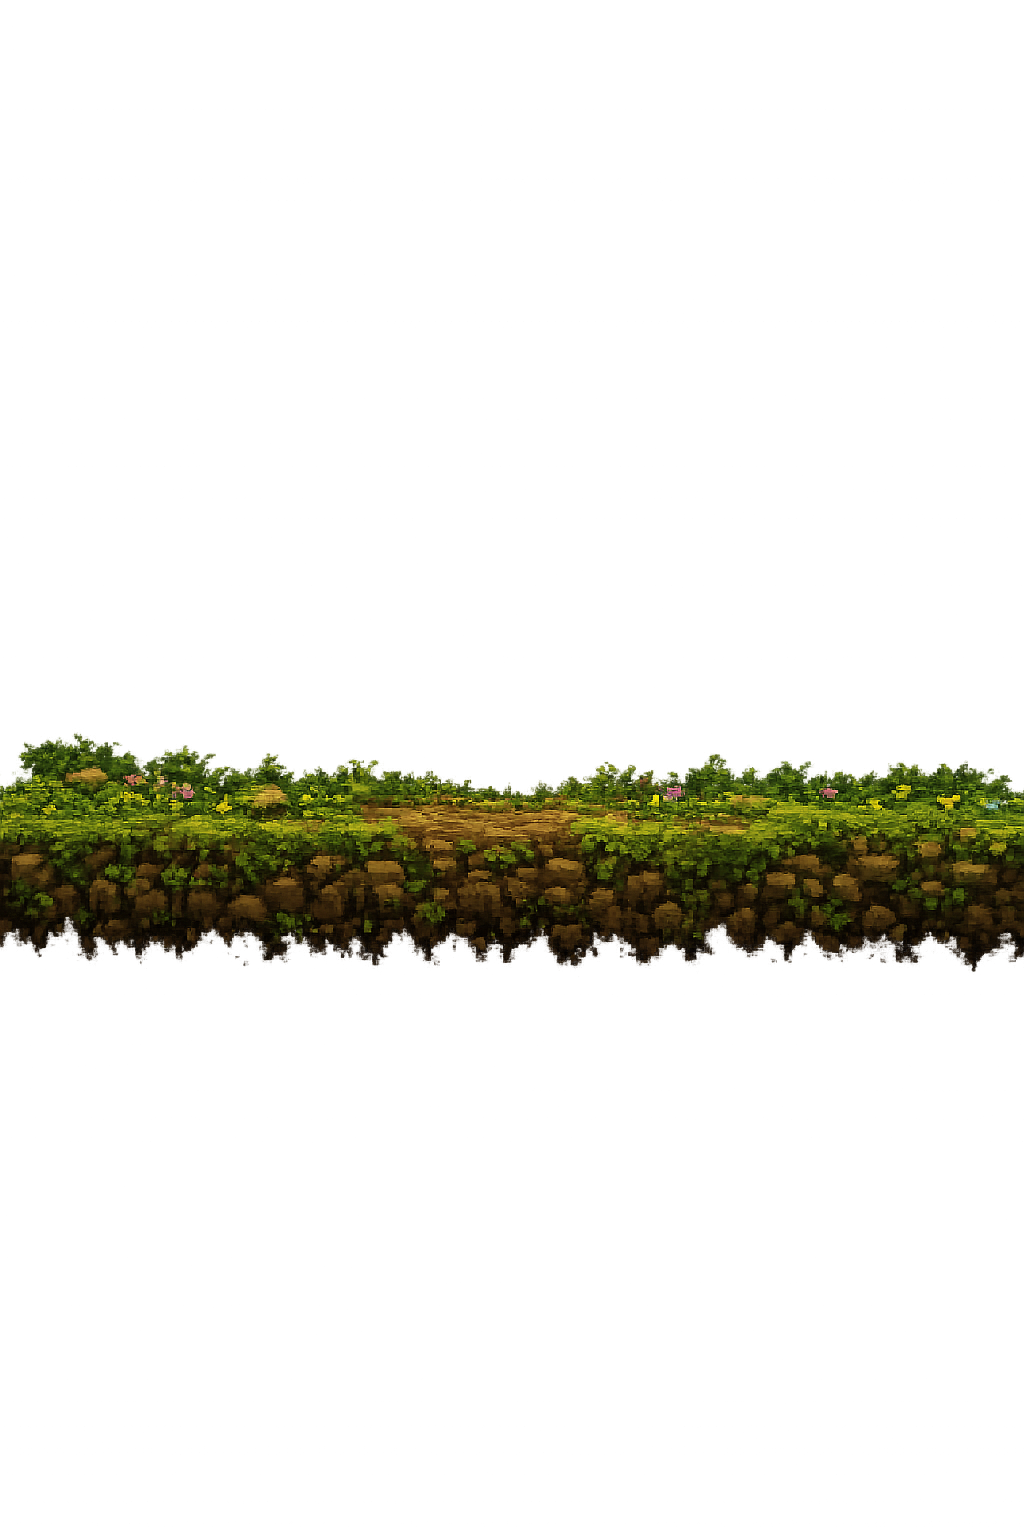
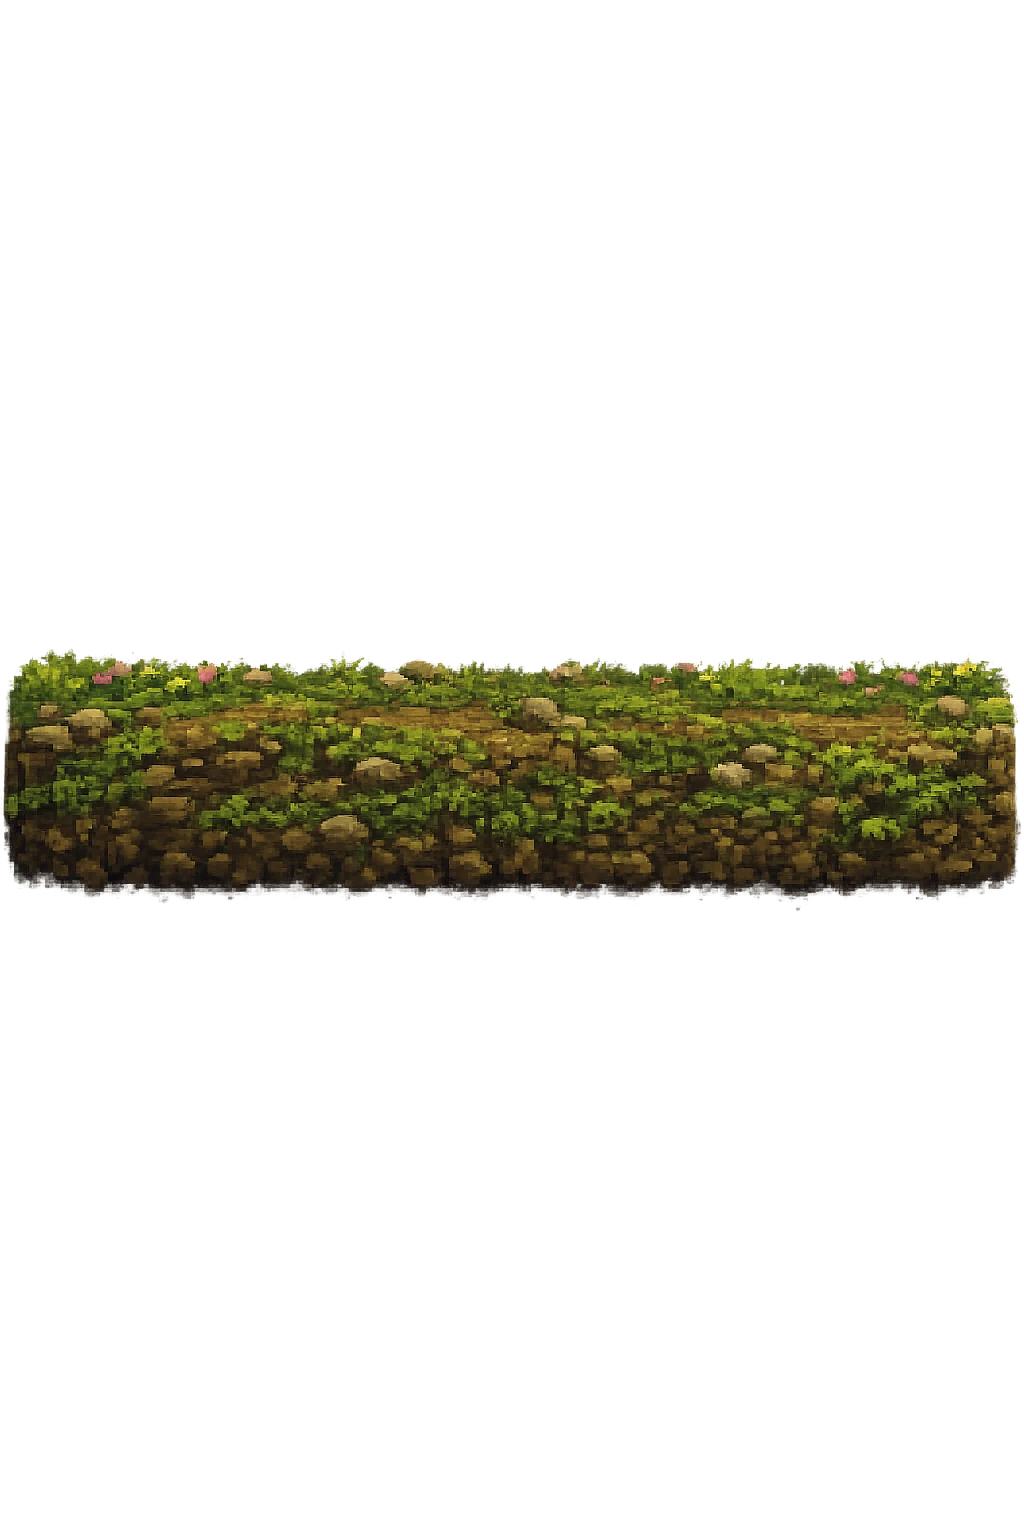
fix(parallax): close tapered-path seam, plant bushes by green-bottom, buddy on dirt
- Tile stride now uses the 85%-coverage solid-width, so tapered paths
  (e.g. forest damp) overlap their neighbours instead of leaving a blue gap.
- Bushes anchor by the bottom of their green foliage, tucking the brown
  base under the solid ground (tall bushes show full green, flat ones peek).
- Buddy stands on the dirt line (PLANT_SURFACE_FRAC), not the path crest.
- Regenerated 5 too-thin path variants (forest flower/stones, snow regular,
  northern grassy, galaxy regular).

Changed region(s): [[0.0, 0.4062, 1.0, 0.625]]

diff --git a/src/components/NineLayerParallax.tsx b/src/components/NineLayerParallax.tsx
@@ -6,7 +6,6 @@ import {
   Dimensions,
   ImageSourcePropType,
 } from "react-native";
-import { LinearGradient } from "expo-linear-gradient";
 import Animated, {
   useSharedValue,
   useAnimatedStyle,
@@ -17,7 +16,9 @@ import Animated, {
 } from "react-native-reanimated";
 import { NINE_LAYER_ASSETS, NineLayerBiome } from "../config/nineLayerAssets";
 import {
-  GROUND_BASELINE,
+  SURFACE_FRAC,
+  GROUND_OVERSHOOT,
+  PLANT_DEPTH,
   NINE_LAYER_GEOMETRY,
 } from "../config/nineLayerGeometry";
 
@@ -26,10 +27,6 @@ const { width: SCREEN_WIDTH, height: SCREEN_HEIGHT } = Dimensions.get("window");
 const FRAME_ASPECT = 1024 / 1536;
 
 const BASE_SPEED = 93;
-
-// Fraction of screen height of path-crest texture shown above the solid fill.
-// The rest of the path "island" is covered by the over-path fill.
-const SURFACE_BAND = 0.05;
 
 type LayerConfig = {
   scale: number;
@@ -191,6 +188,7 @@ const ScrollRow = ({
   leftOffset,
   anchorFracs,
   baselineY,
+  solidFrac = 1,
 }: {
   frames: ImageSourcePropType[];
   pxPerSec: number;
@@ -207,11 +205,17 @@ const ScrollRow = ({
    */
   anchorFracs?: number[];
   baselineY?: number;
+  /**
+   * Fraction of the frame width that is solid. Used as the tile-stride basis so a
+   * tapered "island" path tiles by its solid centre — the tapered tips overlap the
+   * neighbour instead of leaving a transparent gap (which showed as blue sky).
+   */
+  solidFrac?: number;
 }) => {
   const translateX = useSharedValue(0);
   const scaledFrameW = Math.round(SCREEN_HEIGHT * FRAME_ASPECT * scale);
   const scaledH = Math.round(SCREEN_HEIGHT * scale);
-  const stride = scaledFrameW - TILE_OVERLAP;
+  const stride = Math.round(solidFrac * scaledFrameW) - TILE_OVERLAP;
   const period = frames.length * stride;
   const repeats = Math.max(2, Math.ceil((period + SCREEN_WIDTH) / period) + 1);
 
@@ -254,7 +258,9 @@ const ScrollRow = ({
           style={{
             width: scaledFrameW,
             height: scaledH,
-            marginRight: -TILE_OVERLAP,
+            // Spacing = stride, so a tapered path tiles by its solid centre
+            // (negative margin overlaps the tapered tips) — no gap / blue sky.
+            marginRight: stride - scaledFrameW,
             transform: [{ translateY: dy }],
           }}
           resizeMode="stretch"
@@ -276,38 +282,6 @@ const ScrollRow = ({
   );
 };
 
-/**
- * Solid ground fill — a gradient earth band from `baselineY + offset` to the
- * screen bottom. Rendered twice: once behind the path (offset 0) to back up the
- * transparent gaps in the "island" art, and once in front of it (offset =
- * SURFACE_BAND px) to cover the island's scenic body so only a thin crest band
- * of walkable-surface texture stays visible — not a second mini-scene.
- */
-const GroundFill = ({
-  baselineY,
-  fill,
-  zIndex,
-  offset = 0,
-}: {
-  baselineY: number;
-  fill: { top: string; bottom: string };
-  zIndex: number;
-  offset?: number;
-}) => (
-  <LinearGradient
-    colors={[fill.top, fill.bottom]}
-    style={{
-      position: "absolute",
-      left: 0,
-      right: 0,
-      top: baselineY + offset,
-      height: SCREEN_HEIGHT - baselineY - offset,
-      zIndex,
-    }}
-    pointerEvents="none"
-  />
-);
-
 export const NineLayerParallax: React.FC<NineLayerParallaxProps> = ({
   biome,
   speed = 1,
@@ -318,8 +292,7 @@ export const NineLayerParallax: React.FC<NineLayerParallaxProps> = ({
   const set = NINE_LAYER_ASSETS[biome];
   const layers = BIOME_LAYERS[biome];
   const geo = NINE_LAYER_GEOMETRY[biome];
-  const baselineY = Math.round(GROUND_BASELINE * SCREEN_HEIGHT);
-  const bandPx = Math.round(SCREEN_HEIGHT * SURFACE_BAND);
+  const baselineY = Math.round(SURFACE_FRAC * SCREEN_HEIGHT);
   const cloudFrames = useMemo(() => set.clouds, [set]);
   const treeFrames = useMemo(() => set.trees, [set]);
   const bushFrames = useMemo(() => set.bushes, [set]);
@@ -332,6 +305,19 @@ export const NineLayerParallax: React.FC<NineLayerParallaxProps> = ({
     [set, groundIndex],
   );
   const groundCrest = geo.groundCrest[groundIndex];
+  // Anchor the path crest on the surface line and its opaque bottom just BELOW
+  // the screen (GROUND_OVERSHOOT) so the path's gappy underside is hidden
+  // off-screen. The band must fill (1 - SURFACE_FRAC + GROUND_OVERSHOOT) of H.
+  const groundFill = 1 - SURFACE_FRAC + GROUND_OVERSHOOT;
+  const groundBand = Math.max(
+    0.05,
+    geo.groundBottom[groundIndex] - groundCrest,
+  );
+  const groundScale = groundFill / groundBand;
+  // Trees/bushes plant PLANT_DEPTH down into the band so their bases embed
+  // behind the path and they appear to grow out of the ground (not float on it).
+  const plantY =
+    baselineY + Math.round(PLANT_DEPTH * groundFill * SCREEN_HEIGHT);
 
   if (!isActive) return null;
 
@@ -383,62 +369,53 @@ export const NineLayerParallax: React.FC<NineLayerParallaxProps> = ({
         leftOffset={leftOff("midground")}
       />
 
-      {/* 4 — Solid ground fill below the baseline (backs up the path island art) */}
-      <GroundFill baselineY={baselineY} fill={geo.fill} zIndex={4} />
-
-      {/* 5 — Foreground trees (planted on the shared baseline) */}
+      {/* 4 — Foreground trees (planted on the surface line) */}
       <ScrollRow
         frames={treeFrames}
         pxPerSec={pxSec("trees")}
         speed={speed}
         reduceMotion={reduceMotion}
-        zIndex={5}
+        zIndex={4}
         scale={sc("trees")}
         topOffset={0}
         leftOffset={leftOff("trees")}
         anchorFracs={geo.treeBase}
-        baselineY={baselineY}
+        baselineY={plantY}
       />
 
-      {/* 6 — Bushes (planted on the shared baseline) */}
+      {/* 5 — Bushes (planted on the surface line) */}
       <ScrollRow
         frames={bushFrames}
         pxPerSec={pxSec("bushes")}
         speed={speed}
         reduceMotion={reduceMotion}
-        zIndex={6}
+        zIndex={5}
         scale={sc("bushes")}
         topOffset={0}
         leftOffset={leftOff("bushes")}
-        anchorFracs={geo.bushBase}
-        baselineY={baselineY}
+        anchorFracs={geo.bushGreenBottom}
+        baselineY={plantY}
       />
 
-      {/* 7 — Ground path: crest planted on the baseline; one variant per session */}
+      {/* 6 — Ground path: scaled so its crest sits on the surface and its opaque
+          bottom reaches the screen bottom; one variant per session */}
       <ScrollRow
         frames={groundFrame}
         pxPerSec={pxSec("ground")}
         speed={speed}
         reduceMotion={reduceMotion}
-        zIndex={7}
-        scale={sc("ground")}
+        zIndex={6}
+        scale={groundScale}
         topOffset={0}
         leftOffset={leftOff("ground")}
         anchorFracs={[groundCrest]}
         baselineY={baselineY}
+        solidFrac={geo.groundSolidWidth[groundIndex]}
       />
 
-      {/* 8 — Solid ground over the path's scenic body: only a thin crest band of texture stays visible */}
-      <GroundFill
-        baselineY={baselineY}
-        fill={geo.fill}
-        zIndex={8}
-        offset={bandPx}
-      />
-
-      {/* 9 — Sun: centered, static, always visible above scene layers */}
+      {/* 7 — Sun: centered, static, always visible above scene layers */}
       <View
-        style={[styles.sunContainer, { zIndex: 9, top: SCREEN_HEIGHT * 0.06 }]}
+        style={[styles.sunContainer, { zIndex: 7, top: SCREEN_HEIGHT * 0.06 }]}
         pointerEvents="none"
       >
         <Image
@@ -448,13 +425,13 @@ export const NineLayerParallax: React.FC<NineLayerParallaxProps> = ({
         />
       </View>
 
-      {/* 10 — Clouds: highest z-index so they're always visible */}
+      {/* 8 — Clouds: highest z-index so they're always visible */}
       <ScrollRow
         frames={cloudFrames}
         pxPerSec={pxSec("clouds")}
         speed={speed}
         reduceMotion={reduceMotion}
-        zIndex={10}
+        zIndex={8}
         scale={sc("clouds")}
         topOffset={topOff("clouds")}
         leftOffset={leftOff("clouds")}

diff --git a/src/config/nineLayerGeometry.ts b/src/config/nineLayerGeometry.ts
@@ -1,79 +1,88 @@
 /**
- * 9-Layer parallax geometry.
- * Anchor fractions (groundCrest / treeBase / bushBase) are AUTO-MEASURED by an
- * alpha-scan of the nine_layer frames — where the subject base / path crest sits
- * inside the 1024x1536 frame — so every foreground layer plants on one shared
- * baseline. Arrays are parallel to the variant order in nineLayerAssets.ts.
- * `fill` colors are hand-tunable design values (gradient under the path island).
+ * 9-Layer parallax geometry - AUTO-MEASURED (alpha-scan of nine_layer frames).
+ * groundCrest/Bottom: path top/opaque-bottom fraction. groundSolidWidth: solid-centre
+ *   fraction (>=85% column coverage) used as the tile stride so tapered path tips overlap
+ *   their neighbours (no blue-sky gap). treeBase: tree base. bushGreenBottom: bottom of the
+ *   green foliage so bushes plant the green on the surface and tuck the brown base under.
  */
 import { NineLayerBiome } from "./nineLayerAssets";
 
-/** Fraction of screen height where the walkable surface sits. */
-export const GROUND_BASELINE = 0.82;
+export const SURFACE_FRAC = 0.82;
+
+export const GROUND_OVERSHOOT = 0.06;
+
+export const PLANT_DEPTH = 0.25;
+
+export const PLANT_SURFACE_FRAC =
+  SURFACE_FRAC + PLANT_DEPTH * (1 - SURFACE_FRAC + GROUND_OVERSHOOT);
 
 export interface BiomeGeometry {
-  /** crest (top surface) fraction per ground variant - buddy stands here */
   groundCrest: number[];
-  /** base (bottom) fraction per tree variant */
+  groundBottom: number[];
+  groundSolidWidth: number[];
   treeBase: number[];
-  /** base (bottom) fraction per bush variant */
-  bushBase: number[];
-  /** solid earth fill below the baseline (gradient top -> bottom) */
-  fill: { top: string; bottom: string };
+  bushGreenBottom: number[];
 }
 
 export const NINE_LAYER_GEOMETRY: Record<NineLayerBiome, BiomeGeometry> = {
   forest: {
-    groundCrest: [0.639, 0.651, 0.456, 0.482, 0.498, 0.485],
+    groundCrest: [0.639, 0.651, 0.456, 0.482, 0.432, 0.414],
+    groundBottom: [0.842, 0.827, 0.604, 0.627, 0.581, 0.641],
+    groundSolidWidth: [0.999, 0.994, 0.999, 0.902, 0.97, 0.999],
     treeBase: [0.987, 0.98, 0.984, 0.988, 0.992, 0.986, 0.984, 0.988, 0.986],
-    bushBase: [0.995, 0.99, 0.993, 0.991],
-    fill: { top: "#69611b", bottom: "#39350e" },
+    bushGreenBottom: [0.984, 0.949, 0.989, 0.957],
   },
   beach: {
     groundCrest: [0.6, 0.414, 0.732, 0.43, 0.372, 0.579],
+    groundBottom: [0.855, 0.751, 0.912, 0.658, 0.697, 0.814],
+    groundSolidWidth: [0.999, 0.973, 0.999, 0.999, 0.999, 0.999],
     treeBase: [0.991, 0.978, 0.982, 0.98, 0.982, 0.979, 0.99, 0.984, 0.982],
-    bushBase: [0.979, 0.988, 0.987, 0.992],
-    fill: { top: "#cdb98a", bottom: "#7a6a44" },
+    bushGreenBottom: [0.92, 0.949, 0.94, 0.952],
   },
   desert: {
     groundCrest: [0.467, 0.45, 0.492, 0.393, 0.425, 0.536],
+    groundBottom: [0.654, 0.637, 0.631, 0.689, 0.609, 0.708],
+    groundSolidWidth: [0.999, 0.978, 0.999, 0.999, 0.999, 0.967],
     treeBase: [0.99, 0.982, 0.909, 0.987, 0.99, 0.986, 0.992, 0.988, 0.991],
-    bushBase: [0.988, 0.986, 0.993, 0.993],
-    fill: { top: "#ce863c", bottom: "#714921" },
+    bushGreenBottom: [0.825, 0.922, 0.917, 0.993],
   },
   volcano: {
     groundCrest: [0.6, 0.58, 0.168, 0.539, 0.383, 0.594],
+    groundBottom: [0.832, 0.8, 0.65, 0.999, 0.805, 0.803],
+    groundSolidWidth: [0.999, 0.999, 0.999, 0.999, 0.999, 0.999],
     treeBase: [0.99, 0.973, 0.99, 0.984, 0.981, 0.982, 0.989, 0.986, 0.979],
-    bushBase: [0.991, 0.986, 0.992, 0.993],
-    fill: { top: "#6f3924", bottom: "#3d1f13" },
+    bushGreenBottom: [0.991, 0.986, 0.992, 0.993],
   },
   snow: {
-    groundCrest: [0.486, 0.444, 0.585, 0.574, 0.452, 0.523],
+    groundCrest: [0.44, 0.444, 0.585, 0.574, 0.452, 0.523],
+    groundBottom: [0.662, 0.604, 0.762, 0.725, 0.659, 0.678],
+    groundSolidWidth: [0.911, 0.999, 0.999, 0.959, 0.999, 0.999],
     treeBase: [0.973, 0.854, 0.988, 0.982, 0.985, 0.984, 0.99, 0.982, 0.808],
-    bushBase: [0.989, 0.988, 0.996, 0.986],
-    fill: { top: "#bed7ec", bottom: "#687681" },
+    bushGreenBottom: [0.989, 0.988, 0.996, 0.986],
   },
   canyon: {
     groundCrest: [0.627, 0.446, 0.505, 0.492, 0.589, 0.508],
+    groundBottom: [0.785, 0.613, 0.667, 0.677, 0.832, 0.673],
+    groundSolidWidth: [0.949, 0.943, 0.999, 0.999, 0.999, 0.999],
     treeBase: [0.991, 0.984, 0.991, 0.98, 0.984, 0.989, 0.982, 0.992, 0.993],
-    bushBase: [0.99, 0.989, 0.994, 0.995],
-    fill: { top: "#c26325", bottom: "#6a3614" },
+    bushGreenBottom: [0.99, 0.839, 0.994, 0.995],
   },
   northern: {
-    groundCrest: [0.496, 0.462, 0.5, 0.405, 0.832, 0.548],
+    groundCrest: [0.496, 0.462, 0.391, 0.405, 0.832, 0.548],
+    groundBottom: [0.658, 0.658, 0.632, 0.681, 0.999, 0.697],
+    groundSolidWidth: [0.925, 0.892, 0.597, 0.999, 0.975, 0.97],
     treeBase: [0.988, 0.831, 0.986, 0.979, 0.983, 0.988, 0.995, 0.982, 0.98],
-    bushBase: [0.99, 0.985, 0.989, 0.727],
-    fill: { top: "#537abb", bottom: "#2d4366" },
+    bushGreenBottom: [0.99, 0.985, 0.989, 0.727],
   },
   galaxy: {
-    groundCrest: [0.71, 0.774, 0.734, 0.79, 0.799, 0.758],
+    groundCrest: [0.585, 0.774, 0.734, 0.79, 0.799, 0.758],
+    groundBottom: [0.754, 0.999, 0.997, 0.999, 0.999, 0.999],
+    groundSolidWidth: [0.999, 0.818, 0.01, 0.703, 0.944, 0.972],
     treeBase: [0.993, 0.984, 0.979, 0.991, 0.988, 0.987, 0.988, 0.984, 0.992],
-    bushBase: [0.988, 0.98, 0.99, 0.977],
-    fill: { top: "#3a2b5c", bottom: "#180f2e" },
+    bushGreenBottom: [0.988, 0.98, 0.99, 0.977],
   },
 };
 
-/** Buddy sprite foot fraction (lowest opaque row / 200px frame). */
 export const BUDDY_FOOT_FRAC: Record<string, number> = {
   fox: 0.945,
   deer: 0.945,

diff --git a/src/components/ParallaxForestBackground.tsx b/src/components/ParallaxForestBackground.tsx
@@ -10,7 +10,7 @@ import { getTrailAssets } from "../config/trailAssets";
 import { NineLayerParallax } from "./NineLayerParallax";
 import { hasNineLayerSet } from "../config/nineLayerAssets";
 import {
-  GROUND_BASELINE,
+  PLANT_SURFACE_FRAC,
   BUDDY_FOOT_FRAC,
   DEFAULT_FOOT_FRAC,
 } from "../config/nineLayerGeometry";
@@ -355,7 +355,8 @@ export const ParallaxForestBackground: React.FC<
   // ─────────────────────────────────────────────
   if (hasNineLayerSet(trailType)) {
     // Plant the buddy's feet on the same ground baseline NineLayerParallax uses.
-    const baselineY = GROUND_BASELINE * SCREEN_HEIGHT;
+    // Buddy walks on the dirt line (where tree/bush bases sit), not the grass crest.
+    const baselineY = PLANT_SURFACE_FRAC * SCREEN_HEIGHT;
     const footFrac = BUDDY_FOOT_FRAC[trailBuddyType] ?? DEFAULT_FOOT_FRAC;
     const buddyBottom =
       SCREEN_HEIGHT - baselineY - WALK_DISPLAY_SIZE * (1 - footFrac);
